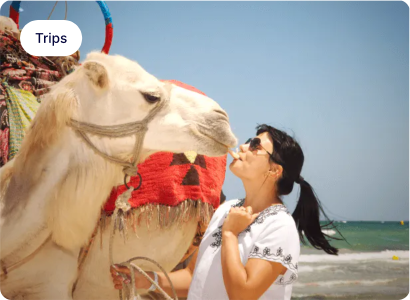
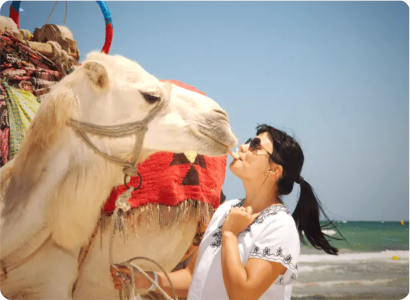
lesson 4.5

Changed region(s): [[0.0293, 0.06, 0.2049, 0.21]]

diff --git a/poss.html b/poss.html
@@ -1,0 +1,55 @@
+<!doctype html>
+<html lang="en">
+	<head>
+		<meta charset="UTF-8" />
+		<meta name="viewport" content="width=device-width, initial-scale=1.0" />
+		<title>Document</title>
+		<style>
+			body {
+				height: 4000px;
+			}
+			.news {
+				position: relative;
+				width: 200px;
+				border: 5px solid black;
+			}
+			.news_title {
+				background: #961e1e;
+				position: sticky;
+				top: 0px;
+			}
+		</style>
+	</head>
+	<body>
+		<div class="news">
+			<h2 class="news_title">
+				Инсайдер: Forza Horizon 6 выйдет на PS5 в январе 2027-го
+			</h2>
+			<p>
+				Lorem ipsum dolor sit amet consectetur, adipisicing elit. Qui nemo
+				facilis harum dolores incidunt aut quas id cumque perspiciatis, placeat
+				maiores facere officiis quidem, inventore nobis architecto. Accusantium
+				tempora magni voluptatem pariatur porro esse vel nisi iure, laudantium
+				autem molestias accusamus aspernatur cum maxime assumenda officia
+				debitis voluptas mollitia. Labore perspiciatis animi id vitae in ut
+				ullam perferendis nostrum aperiam nisi, eos corporis dignissimos minus
+				quam corrupti amet accusamus quisquam exercitationem cupiditate odit
+				quae! Adipisci quam dolore soluta minima recusandae? Distinctio
+				assumenda omnis, eveniet maxime beatae accusantium et quis pariatur
+				facilis quas consequatur, a debitis corporis exercitationem earum
+				doloremque! Sequi nulla nam eveniet inventore? Beatae quis vel doloribus
+				ipsam asperiores a hic dolor doloremque dolorem laudantium explicabo
+				soluta, repellat minima consequatur, officiis aspernatur fugiat, totam
+				animi? Totam consectetur beatae minima veritatis impedit sapiente
+				voluptas facilis nihil alias? Perferendis laudantium ex aliquam! Iusto,
+				sint laboriosam? Aut rem esse quasi beatae aspernatur repellat dolor
+				laborum quod tenetur velit atque quo itaque dolorem, totam debitis
+				consequuntur ducimus. Libero veritatis accusantium repudiandae fuga,
+				consequuntur voluptas necessitatibus rem porro dolore repellat veniam
+				iure, sint ex enim! Molestiae ex expedita, ullam laboriosam nemo
+				voluptates culpa officia. Ab, veritatis quo. Eos, tenetur voluptatibus.
+				Ullam vitae voluptatibus numquam.
+			</p>
+		</div>
+	</body>
+</html>

diff --git a/index.html b/index.html
@@ -157,6 +157,51 @@
 					</div>
 				</div>
 			</section>
+
+			<section class="articles">
+				<div class="container">
+					<div class="articles__header">
+						<h2 class="articles__title">Travel Articles</h2>
+						<a href="" class="articles__link">See all</a>
+					</div>
+					<div class="articles__grid">
+						<!-- карточка  -->
+						<div class="articles__card">
+							<div class="articles__image">
+								<img src="" alt="" />
+								<span>Trips</span>
+							</div>
+							<div class="articles__content">
+								<p class="articles__meta"></p>
+								<h3 class="articles__subtitle"></h3>
+							</div>
+						</div>
+						<!-- карточка  -->
+						<div class="articles__card">
+							<div class="articles__image">
+								<img src="" alt="" />
+								<span>Trips</span>
+							</div>
+							<div class="articles__content">
+								<p class="articles__meta"></p>
+								<h3 class="articles__subtitle"></h3>
+							</div>
+						</div>
+						<!-- карточка  -->
+						<div class="articles__card">
+							<div class="articles__image">
+								<img src="" alt="" />
+								<span>Trips</span>
+							</div>
+							<div class="articles__content">
+								<p class="articles__meta"></p>
+								<h3 class="articles__subtitle"></h3>
+							</div>
+						</div>
+						<!-- карточка  -->
+					</div>
+				</div>
+			</section>
 		</main>
 	</body>
 </html>
